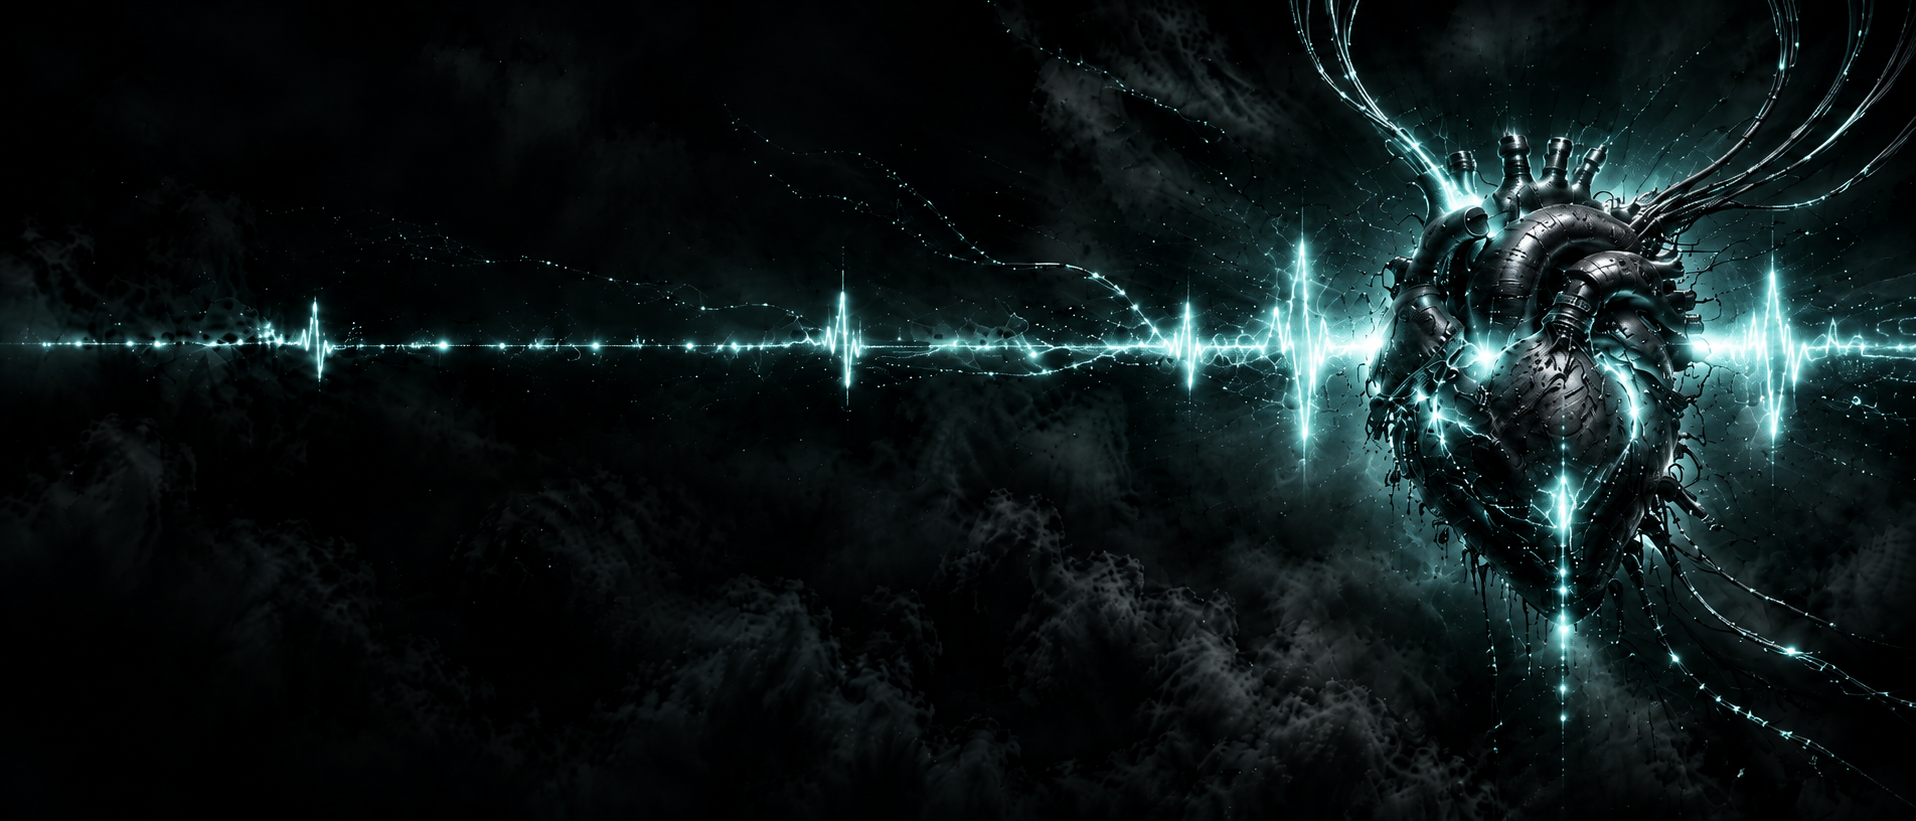
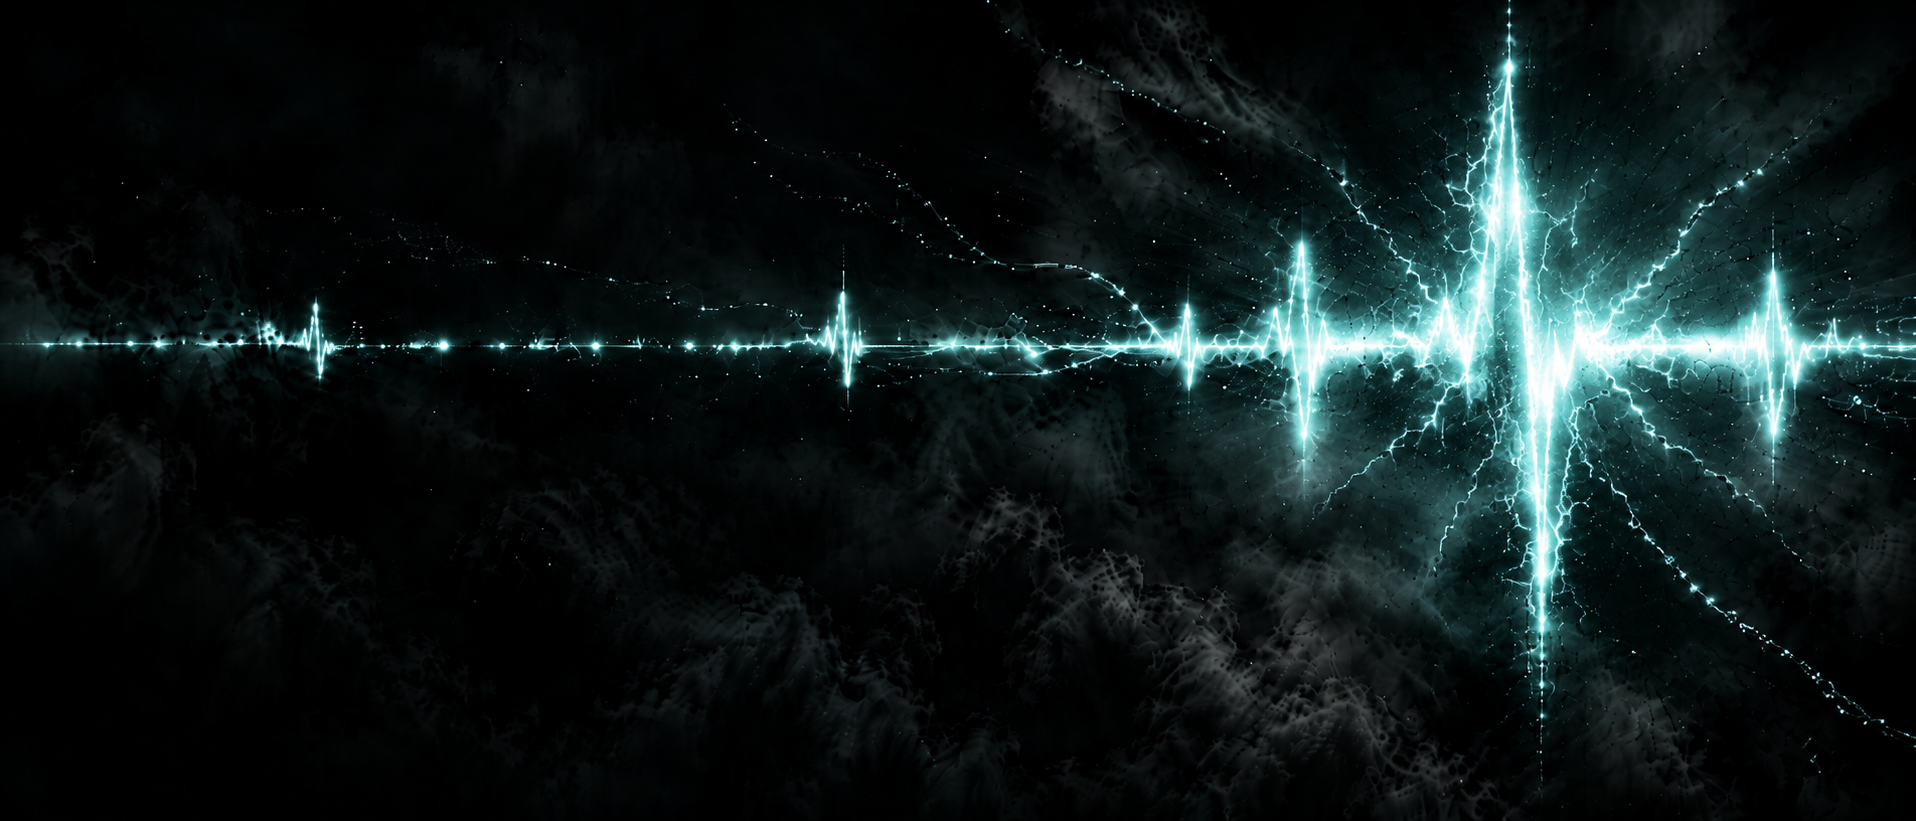
ui: update font

diff --git a/frontend/src/styles/index.css b/frontend/src/styles/index.css
@@ -16,10 +16,18 @@
   --color-panel-strong: rgba(11, 16, 18, 0.92);
   --shadow-red: 0 0 34px rgba(183, 25, 36, 0.22);
   --shadow-moon: 0 0 24px rgba(215, 238, 240, 0.12);
-
-  font-family:
-    Inter, ui-sans-serif, system-ui, -apple-system, BlinkMacSystemFont, "Segoe UI",
+  --font-narrow:
+    "Arial Narrow",
+    "Roboto Condensed",
+    "Helvetica Neue Condensed",
+    "Liberation Sans Narrow",
+    Inter,
+    ui-sans-serif,
+    system-ui,
     sans-serif;
+
+  font-family: var(--font-narrow);
+  font-stretch: condensed;
   color: var(--color-white);
   background: var(--color-black);
   color-scheme: dark;

diff --git a/frontend/src/sections/hero/HeroSection.css b/frontend/src/sections/hero/HeroSection.css
@@ -25,7 +25,6 @@
 
 .hero h1 {
   color: #ffffff59;
-  font-family: "Arial Black", Impact, Haettenschweiler, Inter, ui-sans-serif, system-ui, sans-serif;
   font-size: clamp(56px, 10vw, 136px);
   font-weight: 900;
   line-height: 0.88;
@@ -45,7 +44,6 @@
   background-blend-mode: screen, multiply, multiply, normal;
   -webkit-background-clip: text;
   background-clip: text;
-  font-family: Georgia, "Times New Roman", Times, serif;
   font-size: clamp(14px, 2.6vw, 22px);
   line-height: 1.14;
   letter-spacing: 0.01em;

diff --git a/frontend/src/sections/shows/ShowsSection.css b/frontend/src/sections/shows/ShowsSection.css
@@ -13,7 +13,7 @@
   margin-bottom: 24px;
   font-size: clamp(24px, 2vw, 42px);
   font-weight: 600;
-  letter-spacing: -0.1px;
+  letter-spacing: 0;
   text-transform: uppercase;
 }
 
@@ -92,7 +92,7 @@
   margin-bottom: 8px;
   font-size: clamp(20px, 1.6vw, 24px);
   font-weight: 400;
-  letter-spacing: -0.1px;
+  letter-spacing: 0;
   text-transform: uppercase;
 }
 

diff --git a/frontend/src/sections/latest-release/LatestReleaseSection.css b/frontend/src/sections/latest-release/LatestReleaseSection.css
@@ -46,7 +46,7 @@
   margin-bottom: 12px;
   font-size: clamp(24px, 3vw, 38px);
   font-weight: 500;
-  letter-spacing: -0.1px;
+  letter-spacing: 0;
   line-height: 0.98;
   text-transform: uppercase;
 }

diff --git a/frontend/src/sections/contact/ContactSection.css b/frontend/src/sections/contact/ContactSection.css
@@ -11,7 +11,7 @@
   color: var(--color-white-soft);
   font-size: clamp(24px, 2vw, 42px);
   font-weight: 700;
-  letter-spacing: -0.02em;
+  letter-spacing: 0;
   text-transform: uppercase;
 }
 
